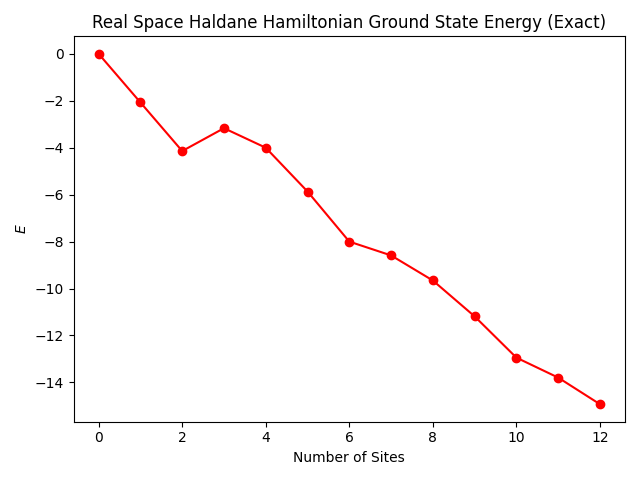
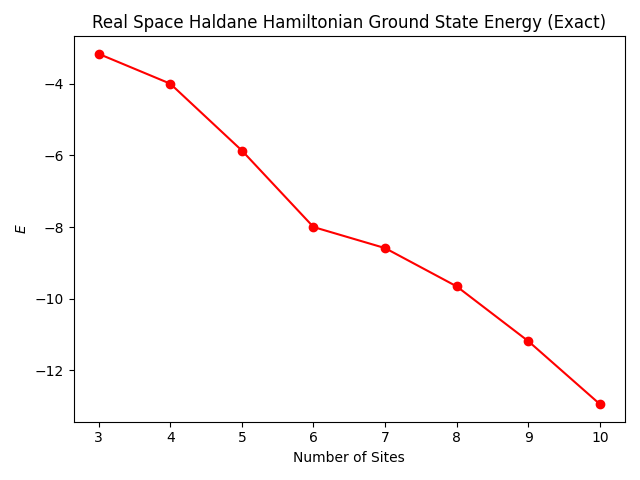
Added noisy simulation scripts

diff --git a/scripts/haldane-model/utils.py b/scripts/haldane-model/utils.py
@@ -19,6 +19,7 @@ from qiskit_algorithms import IterativePhaseEstimation
 
 from qiskit_aer import AerSimulator
 from qiskit_aer.primitives import Sampler
+from qiskit_aer.noise import NoiseModel
 from qiskit.providers import BackendV2
 
 cost_history_dict = {
@@ -160,34 +161,33 @@ def real_space_vqe(n_sites: int, t1: float, t2: float, phi: float, n_occ: int, m
     fermionic_hamiltonian = real_space_fermionic_hamiltonian(n_sites, t1, t2, phi)
     qubit_hamiltonian = mapper.map(fermionic_hamiltonian)
     simulator = AerSimulator.from_backend(backend) if backend else AerSimulator()
-
-    ansatz = real_space_slater_determinant(n_sites, t1, t2, phi, n_occ)
-    pm = generate_preset_pass_manager(target=simulator.target, optimization_level=3)
-    ansatz_isa = pm.run(ansatz)
-    hamiltonian_isa = qubit_hamiltonian.apply_layout(layout=ansatz_isa.layout)
-    x0 = 2 * np.pi * np.random.random(ansatz.num_parameters)
-
-    cost_history_dict = {
-        "prev_vector": None,
-        "iters": 0,
-        "cost_history": [],
-    }
-    def cost_func(params):
-        if cost_history_dict["iters"] >= max_iters:
-            return cost_history_dict["cost_history"][-1]
-    
-        pub = (ansatz_isa, [hamiltonian_isa], [params])
-        result = estimator.run(pubs=[pub]).result()
-        energy = result[0].data.evs[0]
-    
-        cost_history_dict["iters"] += 1
-        cost_history_dict["prev_vector"] = params
-        cost_history_dict["cost_history"].append(energy)
-    
-        return energy
     
     with Session(backend=simulator) as session:
+        ansatz = real_space_slater_determinant(n_sites, t1, t2, phi, n_occ)
+        ansatz_circuit = transpile(ansatz, backend=simulator, optimization_level=3)
+    
         estimator = Estimator(mode=session)
+        x0 = 2 * np.pi * np.random.random(ansatz.num_parameters)
+        
+        cost_history_dict = {
+            "prev_vector": None,
+            "iters": 0,
+            "cost_history": [],
+        }
+        def cost_func(params):
+            if cost_history_dict["iters"] >= max_iters:
+                return cost_history_dict["cost_history"][-1]
+        
+            pub = (ansatz_circuit, [qubit_hamiltonian], [params])
+            result = estimator.run(pubs=[pub]).result()
+            energy = result[0].data.evs[0]
+        
+            cost_history_dict["iters"] += 1
+            cost_history_dict["prev_vector"] = params
+            cost_history_dict["cost_history"].append(energy)
+        
+            return energy
+        
         spsa = SPSA()
         res = spsa.minimize(cost_func, x0=x0)
 
@@ -198,15 +198,22 @@ def real_space_vqe(n_sites: int, t1: float, t2: float, phi: float, n_occ: int, m
 def real_space_iqpe(n_sites: int, t1: float, t2: float, phi: float, n_occ: int, mapper: QubitMapper, t: float, n_trot: int, n_iters: int, backend: BackendV2 = None) -> float:
     fermionic_hamiltonian = real_space_fermionic_hamiltonian(n_sites, t1, t2, phi)
     qubit_hamiltonian = mapper.map(fermionic_hamiltonian)
-    simulator = AerSimulator.from_backend(backend) if backend else AerSimulator()
 
     st = SuzukiTrotter(reps=n_trot)
     evolution = PauliEvolutionGate(qubit_hamiltonian, time=t)
     evolution_circuit = st.synthesize(evolution)
     initial_circuit = real_space_slater_determinant(n_sites, t1, t2, phi, n_occ)
 
-    backend, sampler = AerSimulator(), Sampler()
-    evolution_circuit, initial_circuit = transpile(evolution_circuit, backend=simulator), transpile(initial_circuit, backend=simulator)
+    if backend:
+        noise_model = NoiseModel.from_backend(backend) if backend else NoiseModel()
+        sampler = Sampler(
+            backend_options={
+                "noise_model": noise_model,
+                "basis_gates": noise_model.basis_gates,
+            }
+        )
+    else:
+        sampler = Sampler()
 
     # Sampler is deprecated but IQPE in Qiskit Algorithms has not been updated to use SamplerV2 yet 
     with warnings.catch_warnings():

diff --git a/scripts/haldane-model/real_space_particle_number_simulated_noisy.py b/scripts/haldane-model/real_space_particle_number_simulated_noisy.py
@@ -3,6 +3,7 @@ import numpy as np
 import matplotlib.pyplot as plt
 import os
 from qiskit_nature.second_q.mappers import JordanWignerMapper
+from qiskit_ibm_runtime.fake_provider import FakeTorino
 import warnings
 
 # For real_space_iqpe function: Sampler is deprecated but IQPE in Qiskit Algorithms has not been updated to use SamplerV2 yet
@@ -14,6 +15,7 @@ spin = 2
 mapper = JordanWignerMapper()
 max_iters = 20
 t, n_trot, n_iters = 0.2, 3, 6
+backend = FakeTorino()
 
 data = {
     "exact": {},
@@ -22,8 +24,8 @@ data = {
 }
 for n_occ in range(spin*n_sites+1):
     data["exact"][n_occ] = real_space_exact(n_sites, t1, t2, phi, n_occ)
-    data["vqe"][n_occ] = real_space_vqe(n_sites, t1, t2, phi, n_occ, mapper, max_iters)
-    data["iqpe"][n_occ] = real_space_iqpe(n_sites, t1, t2, phi, n_occ, mapper, t, n_trot, n_iters)
+    data["vqe"][n_occ] = real_space_vqe(n_sites, t1, t2, phi, n_occ, mapper, max_iters, backend)
+    data["iqpe"][n_occ] = real_space_iqpe(n_sites, t1, t2, phi, n_occ, mapper, t, n_trot, n_iters, backend)
 
 plt.figure()
 plt.plot(range(spin*n_sites+1), data["exact"].values(), 'ro-', label="Exact")
@@ -32,8 +34,8 @@ plt.plot(range(spin*n_sites+1), data["iqpe"].values(), 'go', label=f"IQPE (t={t}
 plt.legend()
 plt.xlabel("Particle Number")
 plt.ylabel("$E$")
-plt.title("Real Space Haldane Hamiltonian Ground State Energy (Qiskit Aer Ideal)", fontsize=11)
+plt.title("Real Space Haldane Hamiltonian Ground State Energy (Qiskit Aer Noisy)", fontsize=11)
 plt.tight_layout()
 
-file_path = os.path.join(os.getcwd(), "..", "..", "plots/haldane-model/real-space/simulated-ideal-particle-number-"+str(n_sites)+"-sites.png")
+file_path = os.path.join(os.getcwd(), "..", "..", "plots/haldane-model/real-space/simulated-noisy-particle-number-"+str(n_sites)+"-sites.png")
 plt.savefig(file_path)

diff --git a/scripts/haldane-model/real_space_site_number_simulated_noisy.py b/scripts/haldane-model/real_space_site_number_simulated_noisy.py
@@ -1,0 +1,41 @@
+from utils import real_space_exact, real_space_vqe, real_space_iqpe
+import numpy as np
+import matplotlib.pyplot as plt
+import os
+from qiskit_nature.second_q.mappers import JordanWignerMapper
+from qiskit_ibm_runtime.fake_provider import FakeTorino
+import warnings
+
+# For real_space_iqpe function: Sampler is deprecated but IQPE in Qiskit Algorithms has not been updated to use SamplerV2 yet
+warnings.filterwarnings("ignore", category=DeprecationWarning)
+
+t1, t2, phi = 1.0, 0.05, np.pi/4
+spin = 2
+n_sites_max = 10
+mapper = JordanWignerMapper()
+max_iters = 20
+t, n_trot, n_iters = 0.2, 3, 6
+backend = FakeTorino()
+
+data = {
+    "exact": {},
+    "vqe": {},
+    "iqpe": {}
+}
+for n_sites in range(3, n_sites_max+1):
+    data["exact"][n_sites] = real_space_exact(n_sites, t1, t2, phi, n_sites)
+    data["vqe"][n_sites] = real_space_vqe(n_sites, t1, t2, phi, n_sites, mapper, max_iters, backend)
+    data["iqpe"][n_sites] = real_space_iqpe(n_sites, t1, t2, phi, n_sites, mapper, t, n_trot, n_iters, backend)
+
+plt.figure()
+plt.plot(range(3, n_sites_max+1), data["exact"].values(), 'ro-', label="Exact")
+plt.plot(range(3, n_sites_max+1), data["vqe"].values(), 'bo', label=f"VQE (max_iters={max_iters})")
+plt.plot(range(3, n_sites_max+1), data["iqpe"].values(), 'go', label=f"IQPE (t={t}, n_trot={n_trot}, n_iters={n_iters})")
+plt.legend()
+plt.xlabel("Number of Sites")
+plt.ylabel("$E$")
+plt.title("Real Space Haldane Hamiltonian Ground State Energy (Qiskit Aer Noisy)", fontsize=11)
+plt.tight_layout()
+
+file_path = os.path.join(os.getcwd(), "..", "..", "plots/haldane-model/real-space/simulated-noisy-site-number.png")
+plt.savefig(file_path)

diff --git a/scripts/haldane-model/real_space_site_number_simulated_ideal.py b/scripts/haldane-model/real_space_site_number_simulated_ideal.py
@@ -1,0 +1,39 @@
+from utils import real_space_exact, real_space_vqe, real_space_iqpe
+import numpy as np
+import matplotlib.pyplot as plt
+import os
+from qiskit_nature.second_q.mappers import JordanWignerMapper
+import warnings
+
+# For real_space_iqpe function: Sampler is deprecated but IQPE in Qiskit Algorithms has not been updated to use SamplerV2 yet
+warnings.filterwarnings("ignore", category=DeprecationWarning)
+
+t1, t2, phi = 1.0, 0.05, np.pi/4
+spin = 2
+n_sites_max = 10
+mapper = JordanWignerMapper()
+max_iters = 20
+t, n_trot, n_iters = 0.2, 3, 6
+
+data = {
+    "exact": {},
+    "vqe": {},
+    "iqpe": {}
+}
+for n_sites in range(3, n_sites_max+1):
+    data["exact"][n_sites] = real_space_exact(n_sites, t1, t2, phi, n_sites)
+    data["vqe"][n_sites] = real_space_vqe(n_sites, t1, t2, phi, n_sites, mapper, max_iters)
+    data["iqpe"][n_sites] = real_space_iqpe(n_sites, t1, t2, phi, n_sites, mapper, t, n_trot, n_iters)
+
+plt.figure()
+plt.plot(range(3, n_sites_max+1), data["exact"].values(), 'ro-', label="Exact")
+plt.plot(range(3, n_sites_max+1), data["vqe"].values(), 'bo', label=f"VQE (max_iters={max_iters})")
+plt.plot(range(3, n_sites_max+1), data["iqpe"].values(), 'go', label=f"IQPE (t={t}, n_trot={n_trot}, n_iters={n_iters})")
+plt.legend()
+plt.xlabel("Number of Sites")
+plt.ylabel("$E$")
+plt.title("Real Space Haldane Hamiltonian Ground State Energy (Qiskit Aer Ideal)", fontsize=11)
+plt.tight_layout()
+
+file_path = os.path.join(os.getcwd(), "..", "..", "plots/haldane-model/real-space/simulated-ideal-site-number.png")
+plt.savefig(file_path)

diff --git a/scripts/haldane-model/real_space_site_number_exact.py b/scripts/haldane-model/real_space_site_number_exact.py
@@ -5,14 +5,14 @@ import os
 
 t1, t2, phi = 1.0, 0.05, np.pi/4
 spin = 2
-n_sites_max = 12
+n_sites_max = 10
 
 data = {}
-for n_sites in range(n_sites_max+1):
+for n_sites in range(3, n_sites_max+1):
     data[n_sites] = real_space_exact(n_sites, t1, t2, phi, n_sites)
 
 plt.figure()
-plt.plot(range(n_sites_max+1), data.values(), 'ro-')
+plt.plot(range(3, n_sites_max+1), data.values(), 'ro-')
 plt.xlabel("Number of Sites")
 plt.ylabel("$E$")
 plt.title("Real Space Haldane Hamiltonian Ground State Energy (Exact)")
